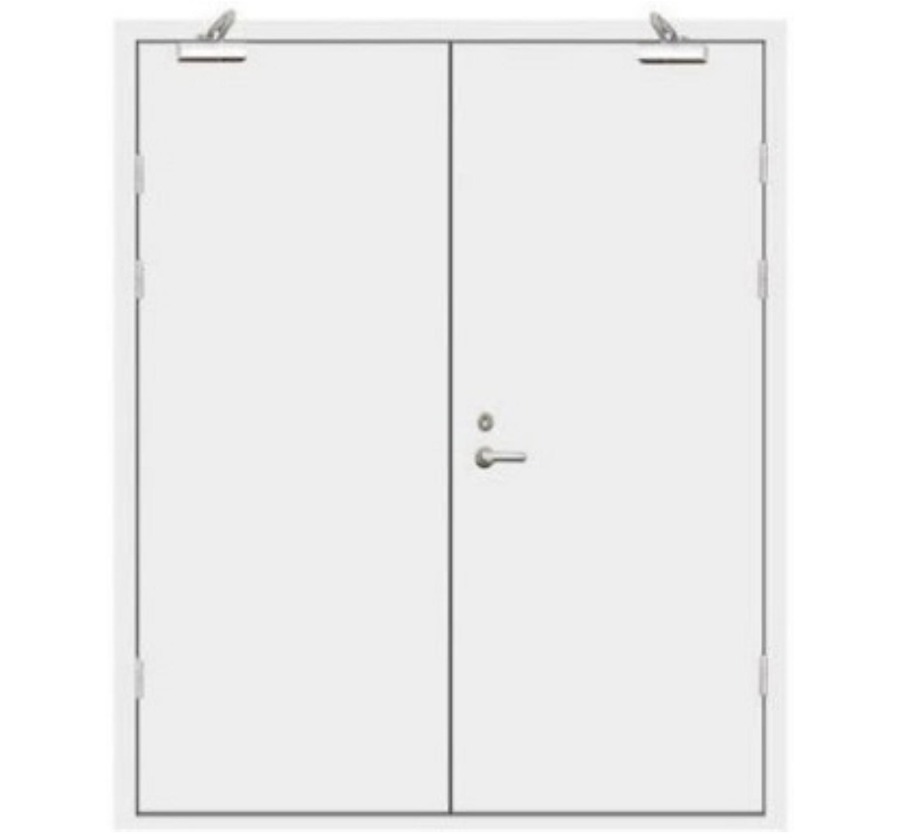
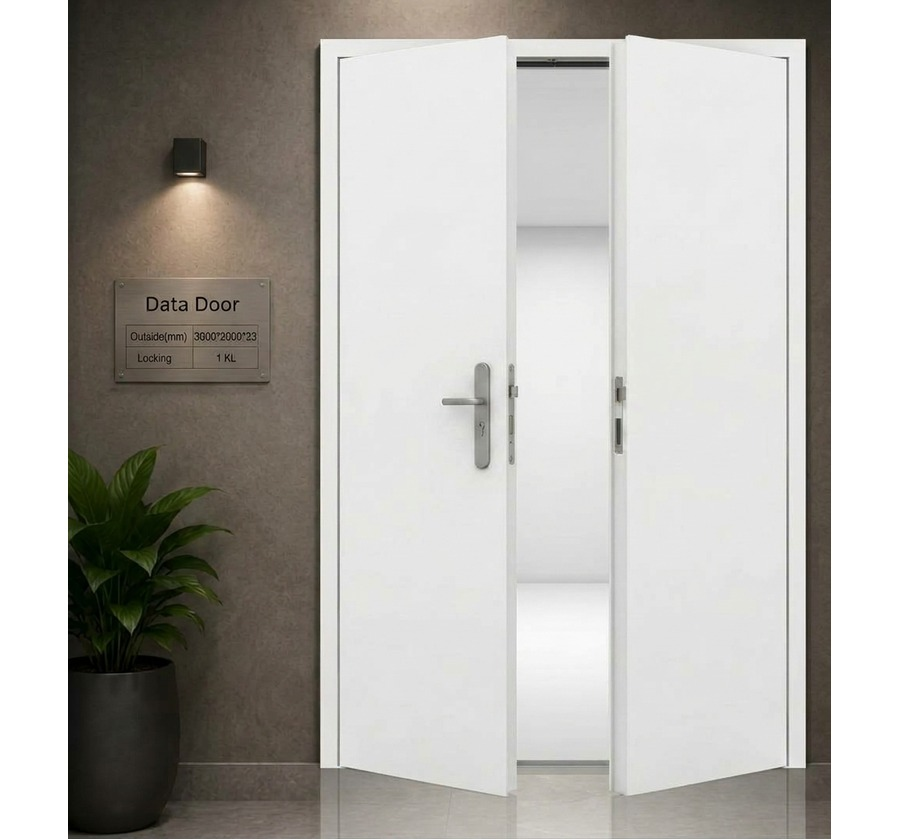
Apply final 2 product photos from DOOR/ folder, completing the batch
Fills the last 2 gaps left after the update2/ photo batch (which had
no source for these):

- DOOR/DATA DOOR-D.jpg -> data-door-double (double-leaf fire door)
- DOOR/TEELER DOOR.jpg -> teeler-door-4 (no-window variant; confirmed
  distinct from the already-applied teeler-door.jpg, which has a
  vertical window strip)

Same contain-fit processing as the rest of the batch (EXIF-safe,
900x839 white canvas). All 63 product photos are now sourced from the
new premium render set.

diff --git a/product/teeler-door-4/index.html b/product/teeler-door-4/index.html
@@ -147,8 +147,8 @@
 
                 <div style="display: grid; grid-template-columns: repeat(auto-fit, minmax(320px, 1fr)); gap: 50px; align-items: start; background: var(--bg-surface); padding: 40px; border-radius: var(--radius-xl); border: 1px solid var(--border-color); box-shadow: var(--shadow-sm);">
                   <div style="background: var(--bg-page); padding: 30px; border-radius: var(--radius-lg); text-align: center; border: 1px solid var(--border-color);">
-                    <img src="../../assets/img/products/teeler-door-4.jpg?v=6891d42f" alt="باب امني مقاوم للرصاص ومقاوم للحريق (بدون نافذة)" width="420" height="420" onerror="this.onerror=null; this.src='../../wp-content/uploads/2025/06/Asset-5.png?v=dc2312ea';" style="max-height: 420px; margin: 0 auto; object-fit: contain;">
-                    <button type="button" class="img-enlarge-btn open-image-lightbox" data-img="../../assets/img/products/teeler-door-4.jpg?v=6891d42f" data-alt="باب امني مقاوم للرصاص ومقاوم للحريق (بدون نافذة)">تكبير صورة المنتج</button>
+                    <img src="../../assets/img/products/teeler-door-4.jpg?v=9d01c6a0" alt="باب امني مقاوم للرصاص ومقاوم للحريق (بدون نافذة)" width="420" height="420" onerror="this.onerror=null; this.src='../../wp-content/uploads/2025/06/Asset-5.png?v=dc2312ea';" style="max-height: 420px; margin: 0 auto; object-fit: contain;">
+                    <button type="button" class="img-enlarge-btn open-image-lightbox" data-img="../../assets/img/products/teeler-door-4.jpg?v=9d01c6a0" data-alt="باب امني مقاوم للرصاص ومقاوم للحريق (بدون نافذة)">تكبير صورة المنتج</button>
                   </div>
                   <div>
                     <span class="product-badge" style="position: static; display: inline-block; margin-bottom: 12px;">أبواب مقاومة للرصاص</span>

diff --git a/en/product/teeler-door-4/index.html b/en/product/teeler-door-4/index.html
@@ -147,8 +147,8 @@
 
                 <div style="display: grid; grid-template-columns: repeat(auto-fit, minmax(320px, 1fr)); gap: 50px; align-items: start; background: var(--bg-surface); padding: 40px; border-radius: var(--radius-xl); border: 1px solid var(--border-color); box-shadow: var(--shadow-sm);">
                   <div style="background: var(--bg-page); padding: 30px; border-radius: var(--radius-lg); text-align: center; border: 1px solid var(--border-color);">
-                    <img src="../../../assets/img/products/teeler-door-4.jpg?v=6891d42f" alt="Bullet & Fire-Resistant Security Door (No Window)" width="420" height="420" onerror="this.onerror=null; this.src='../../../wp-content/uploads/2025/06/Asset-5.png?v=dc2312ea';" style="max-height: 420px; margin: 0 auto; object-fit: contain;">
-                    <button type="button" class="img-enlarge-btn open-image-lightbox" data-img="../../../assets/img/products/teeler-door-4.jpg?v=6891d42f" data-alt="Bullet & Fire-Resistant Security Door (No Window)">Enlarge product image</button>
+                    <img src="../../../assets/img/products/teeler-door-4.jpg?v=9d01c6a0" alt="Bullet & Fire-Resistant Security Door (No Window)" width="420" height="420" onerror="this.onerror=null; this.src='../../../wp-content/uploads/2025/06/Asset-5.png?v=dc2312ea';" style="max-height: 420px; margin: 0 auto; object-fit: contain;">
+                    <button type="button" class="img-enlarge-btn open-image-lightbox" data-img="../../../assets/img/products/teeler-door-4.jpg?v=9d01c6a0" data-alt="Bullet & Fire-Resistant Security Door (No Window)">Enlarge product image</button>
                   </div>
                   <div>
                     <span class="product-badge" style="position: static; display: inline-block; margin-bottom: 12px;">Bullet-Resistant Doors</span>

diff --git a/product/data-door-double/index.html b/product/data-door-double/index.html
@@ -147,8 +147,8 @@
 
                 <div style="display: grid; grid-template-columns: repeat(auto-fit, minmax(320px, 1fr)); gap: 50px; align-items: start; background: var(--bg-surface); padding: 40px; border-radius: var(--radius-xl); border: 1px solid var(--border-color); box-shadow: var(--shadow-sm);">
                   <div style="background: var(--bg-page); padding: 30px; border-radius: var(--radius-lg); text-align: center; border: 1px solid var(--border-color);">
-                    <img src="../../assets/img/products/data-door-double.jpg?v=93a5a26d" alt="باب مقاوم للحريق (دبل)" width="420" height="420" onerror="this.onerror=null; this.src='../../wp-content/uploads/2025/06/Asset-5.png?v=dc2312ea';" style="max-height: 420px; margin: 0 auto; object-fit: contain;">
-                    <button type="button" class="img-enlarge-btn open-image-lightbox" data-img="../../assets/img/products/data-door-double.jpg?v=93a5a26d" data-alt="باب مقاوم للحريق (دبل)">تكبير صورة المنتج</button>
+                    <img src="../../assets/img/products/data-door-double.jpg?v=6ac1233b" alt="باب مقاوم للحريق (دبل)" width="420" height="420" onerror="this.onerror=null; this.src='../../wp-content/uploads/2025/06/Asset-5.png?v=dc2312ea';" style="max-height: 420px; margin: 0 auto; object-fit: contain;">
+                    <button type="button" class="img-enlarge-btn open-image-lightbox" data-img="../../assets/img/products/data-door-double.jpg?v=6ac1233b" data-alt="باب مقاوم للحريق (دبل)">تكبير صورة المنتج</button>
                   </div>
                   <div>
                     <span class="product-badge" style="position: static; display: inline-block; margin-bottom: 12px;">باب مقاوم للحريق</span>

diff --git a/en/product/data-door-double/index.html b/en/product/data-door-double/index.html
@@ -147,8 +147,8 @@
 
                 <div style="display: grid; grid-template-columns: repeat(auto-fit, minmax(320px, 1fr)); gap: 50px; align-items: start; background: var(--bg-surface); padding: 40px; border-radius: var(--radius-xl); border: 1px solid var(--border-color); box-shadow: var(--shadow-sm);">
                   <div style="background: var(--bg-page); padding: 30px; border-radius: var(--radius-lg); text-align: center; border: 1px solid var(--border-color);">
-                    <img src="../../../assets/img/products/data-door-double.jpg?v=93a5a26d" alt="Fire-Resistant Door (Double)" width="420" height="420" onerror="this.onerror=null; this.src='../../../wp-content/uploads/2025/06/Asset-5.png?v=dc2312ea';" style="max-height: 420px; margin: 0 auto; object-fit: contain;">
-                    <button type="button" class="img-enlarge-btn open-image-lightbox" data-img="../../../assets/img/products/data-door-double.jpg?v=93a5a26d" data-alt="Fire-Resistant Door (Double)">Enlarge product image</button>
+                    <img src="../../../assets/img/products/data-door-double.jpg?v=6ac1233b" alt="Fire-Resistant Door (Double)" width="420" height="420" onerror="this.onerror=null; this.src='../../../wp-content/uploads/2025/06/Asset-5.png?v=dc2312ea';" style="max-height: 420px; margin: 0 auto; object-fit: contain;">
+                    <button type="button" class="img-enlarge-btn open-image-lightbox" data-img="../../../assets/img/products/data-door-double.jpg?v=6ac1233b" data-alt="Fire-Resistant Door (Double)">Enlarge product image</button>
                   </div>
                   <div>
                     <span class="product-badge" style="position: static; display: inline-block; margin-bottom: 12px;">Fire-Resistant Doors</span>

diff --git a/assets/js/products-data.js b/assets/js/products-data.js
@@ -922,7 +922,7 @@ window.JAZDRM_PRODUCTS = [
     "category_key": "bulletproof-doors",
     "category_ar": "أبواب مقاومة للرصاص",
     "category_en": "Bullet-Resistant Doors",
-    "image": "assets/img/products/teeler-door-4.jpg?v=6891d42f",
+    "image": "assets/img/products/teeler-door-4.jpg?v=9d01c6a0",
     "short_desc_ar": "باب Teeler الأمني المقاوم للحريق بدون نافذة، بمقاومة 90 دقيقة.",
     "short_desc_en": "Teeler security door without a window, 90-minute fire rating.",
     "full_desc_ar": "Teeler DoorDimension:Outside: 220 x 100 x 23 (mm)Lock System: 1 KL.Fire Rating: 90 MIN",
@@ -937,7 +937,7 @@ window.JAZDRM_PRODUCTS = [
     "category_key": "security-doors",
     "category_ar": "باب مقاوم للحريق",
     "category_en": "Fire-Resistant Doors",
-    "image": "assets/img/products/data-door-double.jpg?v=93a5a26d",
+    "image": "assets/img/products/data-door-double.jpg?v=6ac1233b",
     "short_desc_ar": "باب غرفة البيانات (Data Door) المزدوج المقاوم للحريق بمقاومة 90 دقيقة.",
     "short_desc_en": "Double-leaf data room door, 90-minute fire rating.",
     "full_desc_ar": "Data Door (Double)Dimension:Outside: 220 x 240 x 23 (mm)Lock System: 1 KL.Fire Rating: 90 MIN",

diff --git a/en/product-category/أبواب-الخزائن-المحصنة/index.html b/en/product-category/أبواب-الخزائن-المحصنة/index.html
@@ -283,7 +283,7 @@
   </div>
 
 
-  <script src="../../../assets/js/products-data.js?v=8ff27302"></script>
+  <script src="../../../assets/js/products-data.js?v=1449cc98"></script>
   <script src="../../../assets/js/main.js?v=2b81de23"></script>
 </body>
 </html>

diff --git a/en/product-category/أبواب-مقاومة-للرصاص/index.html b/en/product-category/أبواب-مقاومة-للرصاص/index.html
@@ -283,7 +283,7 @@
   </div>
 
 
-  <script src="../../../assets/js/products-data.js?v=8ff27302"></script>
+  <script src="../../../assets/js/products-data.js?v=1449cc98"></script>
   <script src="../../../assets/js/main.js?v=2b81de23"></script>
 </body>
 </html>

diff --git a/en/product-category/الأبواب-الأمنية-ومقاومة-الحريق/index.html b/en/product-category/الأبواب-الأمنية-ومقاومة-الحريق/index.html
@@ -283,7 +283,7 @@
   </div>
 
 
-  <script src="../../../assets/js/products-data.js?v=8ff27302"></script>
+  <script src="../../../assets/js/products-data.js?v=1449cc98"></script>
   <script src="../../../assets/js/main.js?v=2b81de23"></script>
 </body>
 </html>

diff --git a/en/product-category/الخزائن-المقاومة-للحريق/index.html b/en/product-category/الخزائن-المقاومة-للحريق/index.html
@@ -283,7 +283,7 @@
   </div>
 
 
-  <script src="../../../assets/js/products-data.js?v=8ff27302"></script>
+  <script src="../../../assets/js/products-data.js?v=1449cc98"></script>
   <script src="../../../assets/js/main.js?v=2b81de23"></script>
 </body>
 </html>

diff --git a/en/product-category/خزائن-الإيداع/index.html b/en/product-category/خزائن-الإيداع/index.html
@@ -283,7 +283,7 @@
   </div>
 
 
-  <script src="../../../assets/js/products-data.js?v=8ff27302"></script>
+  <script src="../../../assets/js/products-data.js?v=1449cc98"></script>
   <script src="../../../assets/js/main.js?v=2b81de23"></script>
 </body>
 </html>

diff --git a/en/product-category/دواليب-الملفات/index.html b/en/product-category/دواليب-الملفات/index.html
@@ -283,7 +283,7 @@
   </div>
 
 
-  <script src="../../../assets/js/products-data.js?v=8ff27302"></script>
+  <script src="../../../assets/js/products-data.js?v=1449cc98"></script>
   <script src="../../../assets/js/main.js?v=2b81de23"></script>
 </body>
 </html>

diff --git a/en/products/index.html b/en/products/index.html
@@ -283,7 +283,7 @@
   </div>
 
 
-  <script src="../../assets/js/products-data.js?v=8ff27302"></script>
+  <script src="../../assets/js/products-data.js?v=1449cc98"></script>
   <script src="../../assets/js/main.js?v=2b81de23"></script>
 </body>
 </html>
